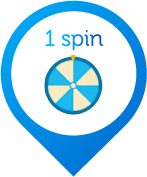
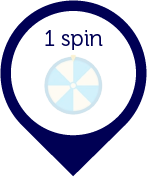
update process & fix UI

diff --git a/src/app/process/page.tsx b/src/app/process/page.tsx
@@ -30,7 +30,7 @@ const ProcessPage = () => {
         <div className="relative h-20 flex-shrink-0 grid grid-cols-7 mb-0.5">
           <div className="flex justify-end select-none pointer-events-none col-span-3">
             <Image
-              src={completed >= 3 ? "/images/process1.png" : "/images/process1.png"}
+              src={completed >= 3 ? "/images/process1-actived.png" : "/images/process1.png"}
               alt="logo"
               width="0"
               height="0"
@@ -62,7 +62,7 @@ const ProcessPage = () => {
             />
           </div>
         </div>
-        <Progress value={progress} className="w-full" />
+        <Progress value={progress} className="w-full flex" />
       </div>
       <div className="mt-10 flex justify-center">
         <Booth

diff --git a/src/components/ui/progress.tsx b/src/components/ui/progress.tsx
@@ -18,9 +18,18 @@ const Progress = React.forwardRef<
     {...props}
   >
     <ProgressPrimitive.Indicator
-      className="h-full w-full flex-1 bg-gradient-to-r from-rmit to-blue-500 rounded-full transition-all"
+      className="h-full w-full flex-1 bg-gradient-to-r from-rmit to-blue-500 rounded-full relative transition-all"
       style={{ transform: `translateX(-${100 - (value || 0)}%)` }}
-    />
+    >
+      <h6
+        className={cn(
+          "text-process-percent",
+          (value || 0) < 100 ? "left-full translate-x-2" : "right-2"
+        )}
+      >
+        {value}%
+      </h6>
+    </ProgressPrimitive.Indicator>
   </ProgressPrimitive.Root>
 ));
 Progress.displayName = ProgressPrimitive.Root.displayName;

diff --git a/src/app/booth/6/form.tsx b/src/app/booth/6/form.tsx
@@ -89,7 +89,7 @@ const BoothForm = () => {
                   >
                     {options.map((value) => (
                       <FormItem key={value} className="flex items-start space-x-1.5 space-y-0">
-                        <FormControl>
+                        <FormControl className="flex-shrink-0">
                           <RadioGroupItem className="bg-rmit mt-0.5" value={value}>
                             <Indicator className="flex items-center justify-center w-full h-full !bg-primary rounded-[4px]"></Indicator>
                           </RadioGroupItem>

diff --git a/src/app/booth/2/form.tsx b/src/app/booth/2/form.tsx
@@ -92,7 +92,7 @@ const BoothForm = () => {
                   >
                     {options.map((value) => (
                       <FormItem key={value} className="flex items-center space-x-1.5 space-y-0">
-                        <FormControl>
+                        <FormControl className="flex-shrink-0">
                           <RadioGroupItem className="bg-rmit" value={value}>
                             <Indicator className="flex items-center justify-center w-full h-full !bg-primary rounded-[4px]"></Indicator>
                           </RadioGroupItem>

diff --git a/src/app/booth/3/form.tsx b/src/app/booth/3/form.tsx
@@ -91,7 +91,7 @@ const BoothForm = () => {
                   >
                     {options.map((value) => (
                       <FormItem key={value} className="flex items-center space-x-1.5 space-y-0">
-                        <FormControl>
+                        <FormControl className="flex-shrink-0">
                           <RadioGroupItem className="bg-rmit" value={value}>
                             <Indicator className="flex items-center justify-center w-full h-full !bg-primary rounded-[4px]"></Indicator>
                           </RadioGroupItem>

diff --git a/src/app/booth/4/form.tsx b/src/app/booth/4/form.tsx
@@ -83,7 +83,7 @@ const BoothForm = () => {
                   >
                     {options.map((value) => (
                       <FormItem key={value} className="flex items-center space-x-1.5 space-y-0">
-                        <FormControl>
+                        <FormControl className="flex-shrink-0">
                           <RadioGroupItem className="bg-rmit" value={value}>
                             <Indicator className="flex items-center justify-center w-full h-full !bg-primary rounded-[4px]"></Indicator>
                           </RadioGroupItem>

diff --git a/src/app/booth/5/form.tsx b/src/app/booth/5/form.tsx
@@ -81,7 +81,7 @@ const BoothForm = () => {
                   >
                     {options.map((value) => (
                       <FormItem key={value} className="flex items-center space-x-1.5 space-y-0">
-                        <FormControl>
+                        <FormControl className="flex-shrink-0">
                           <RadioGroupItem className="bg-rmit" value={value}>
                             <Indicator className="flex items-center justify-center w-full h-full !bg-primary rounded-[4px]"></Indicator>
                           </RadioGroupItem>

diff --git a/src/app/booth/1/form.tsx b/src/app/booth/1/form.tsx
@@ -82,7 +82,7 @@ const Booth1Form = () => {
                 >
                   {options.map((value) => (
                     <FormItem key={value} className="flex items-center space-x-1.5 space-y-0">
-                      <FormControl>
+                      <FormControl className="flex-shrink-0">
                         <RadioGroupItem className="bg-rmit" value={value}>
                           <Indicator className="flex items-center justify-center w-full h-full !bg-primary rounded-[4px]"></Indicator>
                         </RadioGroupItem>

diff --git a/src/app/(register)/form.tsx b/src/app/(register)/form.tsx
@@ -123,7 +123,7 @@ const RegisterForm = () => {
                 >
                   {options.map(({ value, label }) => (
                     <FormItem key={value} className="flex items-center space-x-1.5 space-y-0">
-                      <FormControl>
+                      <FormControl className="flex-shrink-0">
                         <RadioGroupItem value={value} />
                       </FormControl>
                       <FormLabel className="font-normal text-[11px] text-rmit">{label}</FormLabel>

diff --git a/src/app/globals.css b/src/app/globals.css
@@ -112,3 +112,9 @@ body {
 .scanner svg path {
   @apply stroke-rmit;
 }
+
+.text-process-percent {
+  @apply text-white text-right absolute text-[10px] bg-gradient-to-r from-blue-400 to-blue-900;
+  background-clip: text;
+  -webkit-text-fill-color: transparent;
+}
